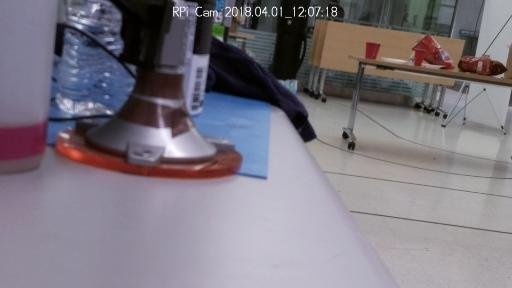
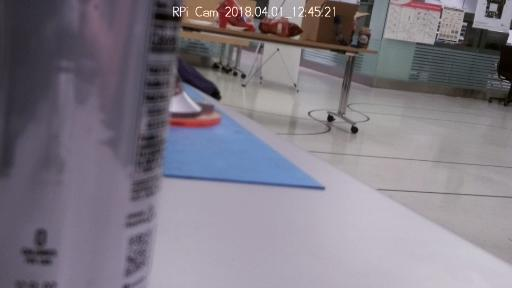
Added popup

diff --git a/templates/index.html b/templates/index.html
@@ -34,7 +34,7 @@
                 var timestamp = Math.floor(Date.now());
                 document.getElementById("imptUpdate").src="http://10.24.88.66/html/cam_pic.php?time=" + timestamp;
 
-            }, 5000)
+            }, 500)
 
             window.setInterval(function() {
                 fileSizeURL = "/openIssues";
@@ -50,27 +50,27 @@
             window.setInterval(function() {
                 var timestamp = Math.floor(Date.now());
                 document.getElementById("update2").src="http://10.25.213.197/cam_pic.php?time=" + timestamp;
-            }, 100);
+            }, 400);
 
             function danger(){
-
                 modal.style.display = "block";
-                $('#alert').animate({width: "100%"}, 200 );
-                $('header').css('background', 'red');document.getElementById("information").innerHTML = "<b><center>This situation needs your attention</center></b>";
-                document.addEventListener("keypress", function(event) {
-                        if (event.keyCode == 121) {
-                            // This is Y
-                            clearIssue();
-                            return
-                        }
-                    })
-                document.addEventListener("keypress", function(event) {
-                        if (event.keyCode == 110) {
-                            // This is N
-                            clearIssue();
-                            return
-                        }
-                    })
+                $('header').css('background', 'red');
+                document.getElementById("information").innerHTML = "<h2><b><center>This situation needs your attention</center></b></h2>";
+                document.addEventListener("keypress", function(event) {if (event.keyCode == 121) {
+                        // This is Y
+                        clearIssue();
+                        return
+                    }
+                }); document.addEventListener("keypress", function(event) {
+                    if (event.keyCode == 110) {
+                        // This is N
+                        clearIssue();
+                        return
+                    }
+                });
+
+
+
             }
             function httpGet(theUrl)
                 // The network request grabs the json containing mp3 structure
@@ -81,7 +81,6 @@
                     return xmlHttp.responseText;
                 }
             function clearIssue(){
-                document.getElementById("alert").style.display = 'none';
                 setWait = false;
                 fileSizeURL = "/clearAllIssues";
                 httpGet(fileSizeURL);
@@ -104,26 +103,22 @@
                       <!-- Modal content -->
                       <div class="modal-content">
                         <span class="close">&times;</span>
-                        <img id="imptUpdate" src="http://10.24.88.66/html/cam_pic.php?time=0" style="display:table-cell; vertical-align:middle; text-align:center; opacity: 0.8; height: 95% !important;"></img>
-                      </div>
+                        <h2><b><center><font style="color:#FFFFFF;">This situation needs your attention</font></center></b></h2><p></p>
+                        <img id="imptUpdate" src="http://10.24.88.66/html/cam_pic.php?time=0" style="display:table-cell; vertical-align:middle; text-align:center; opacity: 1; height: 95% !important;"></img>
+
+
+                       <h2><b><center><font style="color:#FFFFFF;">This situation needs your attention</font></center></b></h2><p></p>
+                       </div>
+                       </div>
+
+
+            <!----> </div>
+                      <!--Alert-->
 
                     </div>
         <section class="content">
             <header id="header">
-            <!--Alert-->
-            <svg id="alert" width="0%" height="500" viewBox="130 50 400 350">
-                <path fill="none" d="M0 0h700v400H0z"/>
-                <defs>
-                    <linearGradient gradientUnits="objectBoundingBox" id="a" x1="0%" y1="0%" y2="0%">
-                        <stop offset="0" stop-color="#f45b69"/>
-                        <stop offset="100%" stop-color="#f4815b"/>
-                    </linearGradient>
-                </defs>
-                <circle cx="335" cy="197" r="126.59" fill="none" stroke="url(#a)" stroke-width="25"/>
-                <circle cx="332" cy="340" r="40" transform="matrix(.62739 0 0 .62739 127.208 54.66)" fill="url(#a)"/>
-                <rect x="310" y="119" width="50" height="100" rx="30" ry="22" transform="matrix(.97143 0 0 1.21667 10.566 -38.643)" fill="url(#a)"/>
-            </svg>
-            <!---->
+
                 <div id="information" class="content">
                     <h1><a href="#">Welcome to FirstAlert!</a></h1>
                     <p>Application is listening...<br /></p>
@@ -160,9 +155,10 @@ body {font-family: Arial, Helvetica, sans-serif;}
 
 /* Modal Content */
 .modal-content {
-    background-color: #fefefe;
+    background-color: #652727;
     margin: auto;
     padding: 20px;
+    padding-bottom: 120px;
     border: 1px solid #888;
     width: 80%;
     height: 80%;
